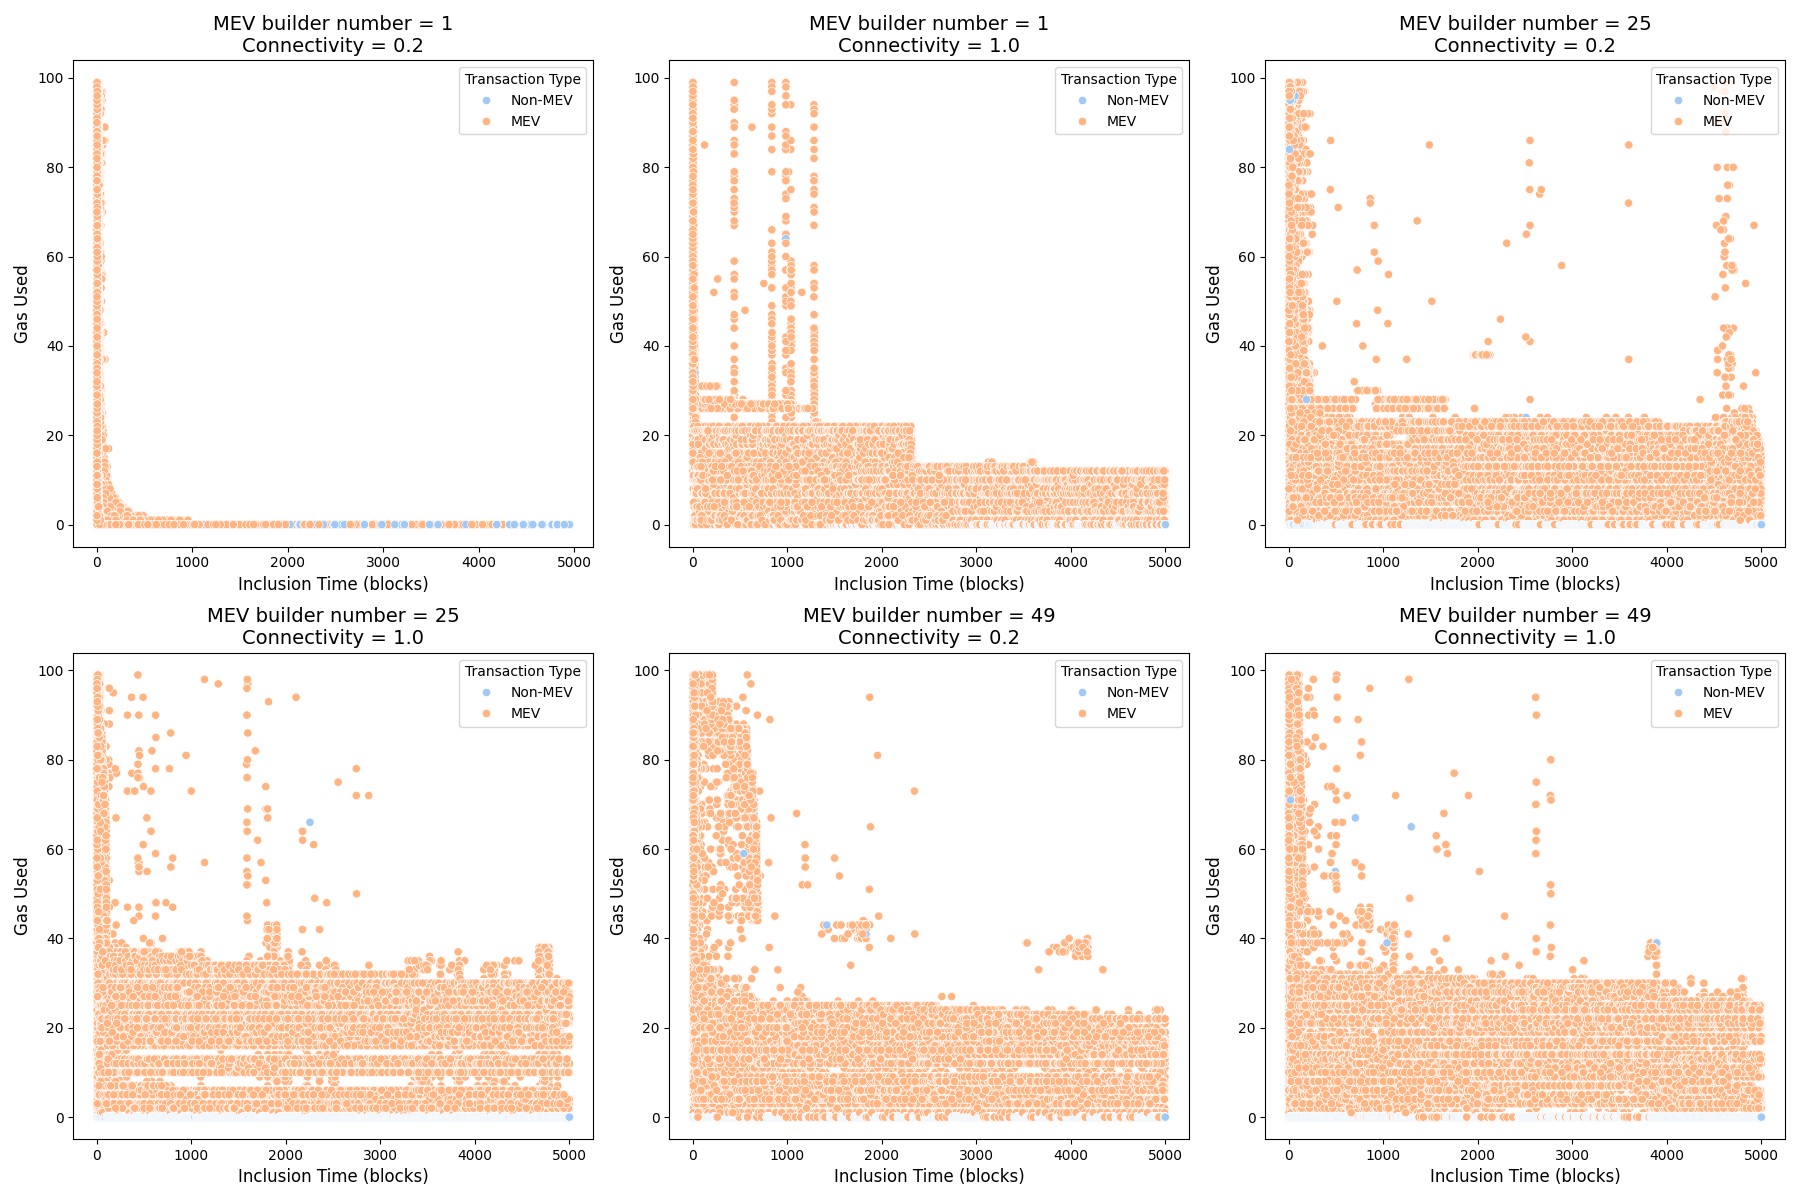
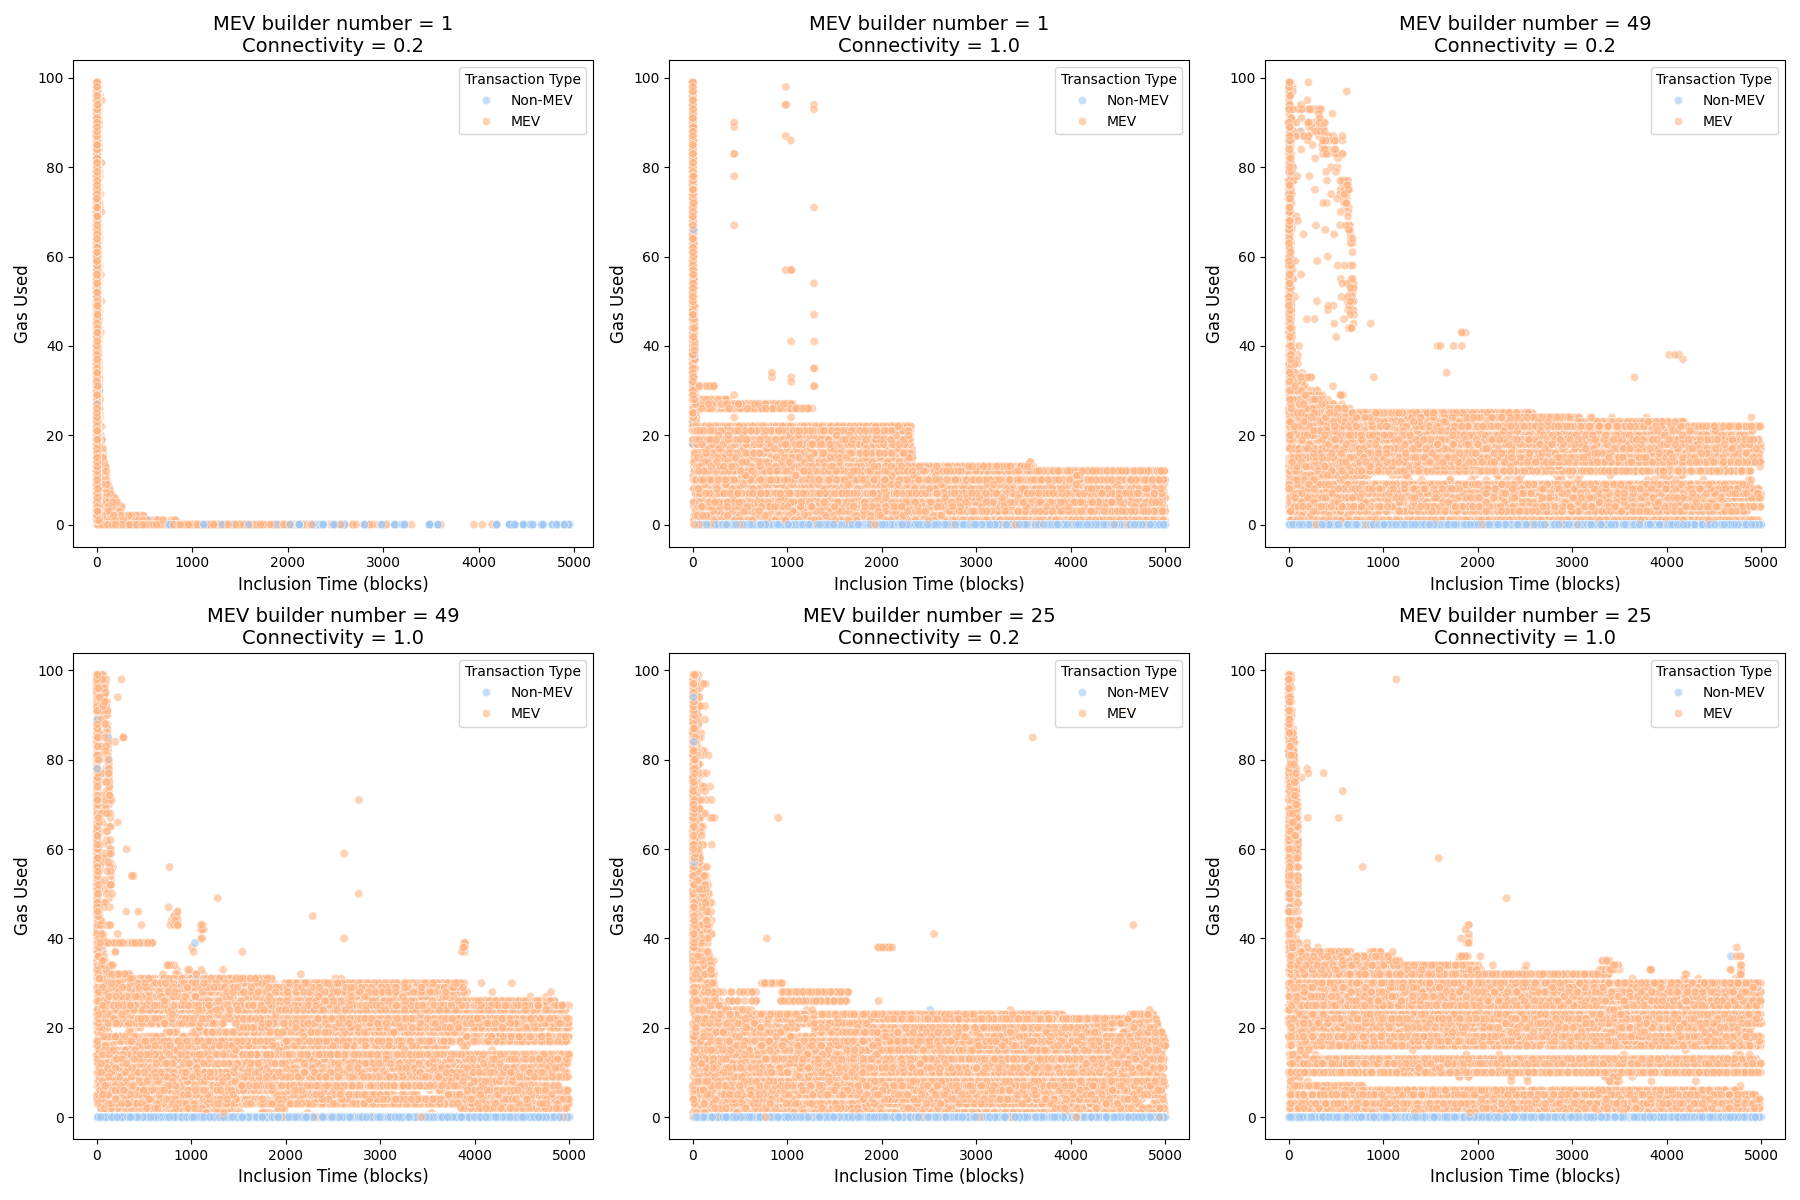
arrange

diff --git a/plots/tx_plot.py b/plots/tx_plot.py
@@ -89,37 +89,39 @@ def plot_violin(data_dict, save_dir):
     plt.savefig(os.path.join(save_dir, 'inclusion_time_violin.png'))
     plt.close()
 
-def plot_scatter_mev(data_dict, save_dir):
-    plt.figure(figsize=(18, 12))
-    for idx, (file_label, data) in enumerate(data_dict.items(), 1):
-        data['mev_exploited'] = data['mev'] > 0
-        plt.subplot(2, 3, idx)
-        sns.scatterplot(data=data, x='inclusion_time', y='mev', hue='mev_exploited', palette='pastel')
-        mev_builders = data['mev_builders'].iloc[0]
-        connectivity = data['connectivity'].iloc[0]
-        plt.title(f'MEV builder number = {mev_builders}\nConnectivity = {connectivity}', fontsize=14)
-        plt.xlabel('Inclusion Time (blocks)', fontsize=12)
-        plt.ylabel('MEV Extracted', fontsize=12)
-        handles, labels = plt.gca().get_legend_handles_labels()
-        plt.legend(handles, ['Non-MEV', 'MEV'], title='Transaction Type', loc='upper right')
+def plot_scatter_mev(data_dict, save_dir, sample_fraction=0.1):
+    fig, axes = plt.subplots(2, 3, figsize=(18, 12))
+    axes = axes.flatten()
+    for idx, (file_label, data) in enumerate(data_dict.items()):
+        data_sample = data.sample(frac=sample_fraction, random_state=1)
+        data_sample['mev_exploited'] = data_sample['mev'] > 0
+        sns.scatterplot(data=data_sample, x='inclusion_time', y='mev', hue='mev_exploited', palette='pastel', alpha=0.6, ax=axes[idx])
+        mev_builders = data_sample['mev_builders'].iloc[0]
+        connectivity = data_sample['connectivity'].iloc[0]
+        axes[idx].set_title(f'MEV builder number = {mev_builders}\nConnectivity = {connectivity}', fontsize=14)
+        axes[idx].set_xlabel('Inclusion Time (blocks)', fontsize=12)
+        axes[idx].set_ylabel('MEV Extracted', fontsize=12)
+        handles, labels = axes[idx].get_legend_handles_labels()
+        axes[idx].legend(handles, ['Non-MEV', 'MEV'], title='Transaction Type', loc='upper right')
 
     plt.tight_layout()
     plt.savefig(os.path.join(save_dir, 'scatter_mev.png'))
     plt.close()
 
-def plot_scatter_gas(data_dict, save_dir):
-    plt.figure(figsize=(18, 12))
-    for idx, (file_label, data) in enumerate(data_dict.items(), 1):
-        data['mev_exploited'] = data['mev'] > 0
-        plt.subplot(2, 3, idx)
-        sns.scatterplot(data=data, x='inclusion_time', y='gas', hue='mev_exploited', palette='pastel')
-        mev_builders = data['mev_builders'].iloc[0]
-        connectivity = data['connectivity'].iloc[0]
-        plt.title(f'MEV builder number = {mev_builders}\nConnectivity = {connectivity}', fontsize=14)
-        plt.xlabel('Inclusion Time (blocks)', fontsize=12)
-        plt.ylabel('Gas Used', fontsize=12)
-        handles, labels = plt.gca().get_legend_handles_labels()
-        plt.legend(handles, ['Non-MEV', 'MEV'], title='Transaction Type', loc='upper right')
+def plot_scatter_gas(data_dict, save_dir, sample_fraction=0.1):
+    fig, axes = plt.subplots(2, 3, figsize=(18, 12))
+    axes = axes.flatten()
+    for idx, (file_label, data) in enumerate(data_dict.items()):
+        data_sample = data.sample(frac=sample_fraction, random_state=1)
+        data_sample['mev_exploited'] = data_sample['mev'] > 0
+        sns.scatterplot(data=data_sample, x='inclusion_time', y='gas', hue='mev_exploited', palette='pastel', alpha=0.6, ax=axes[idx])
+        mev_builders = data_sample['mev_builders'].iloc[0]
+        connectivity = data_sample['connectivity'].iloc[0]
+        axes[idx].set_title(f'MEV builder number = {mev_builders}\nConnectivity = {connectivity}', fontsize=14)
+        axes[idx].set_xlabel('Inclusion Time (blocks)', fontsize=12)
+        axes[idx].set_ylabel('Gas Used', fontsize=12)
+        handles, labels = axes[idx].get_legend_handles_labels()
+        axes[idx].legend(handles, ['Non-MEV', 'MEV'], title='Transaction Type', loc='upper right')
 
     plt.tight_layout()
     plt.savefig(os.path.join(save_dir, 'scatter_gas.png'))
@@ -140,6 +142,8 @@ def main():
         "mev_builders=49characteristic=0.2.csv",
         "mev_builders=49characteristic=1.csv"
     ]
+
+    representative_files.sort(key=lambda x: (int(x.split('=')[1].split('characteristic')[0]), float(x.split('=')[2].replace('.csv', ''))))
 
     file_paths = [os.path.join(folder_path, rep_file) for rep_file in representative_files]
     data_dict = process_files_in_parallel(file_paths)
